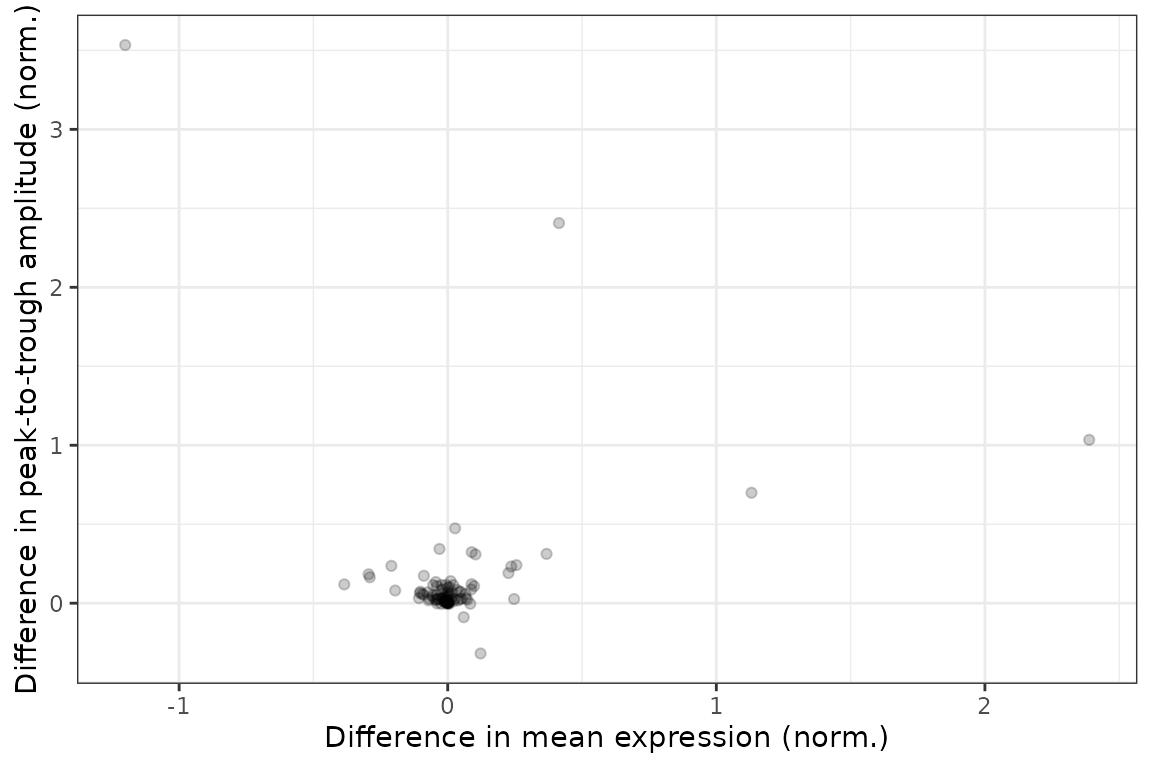
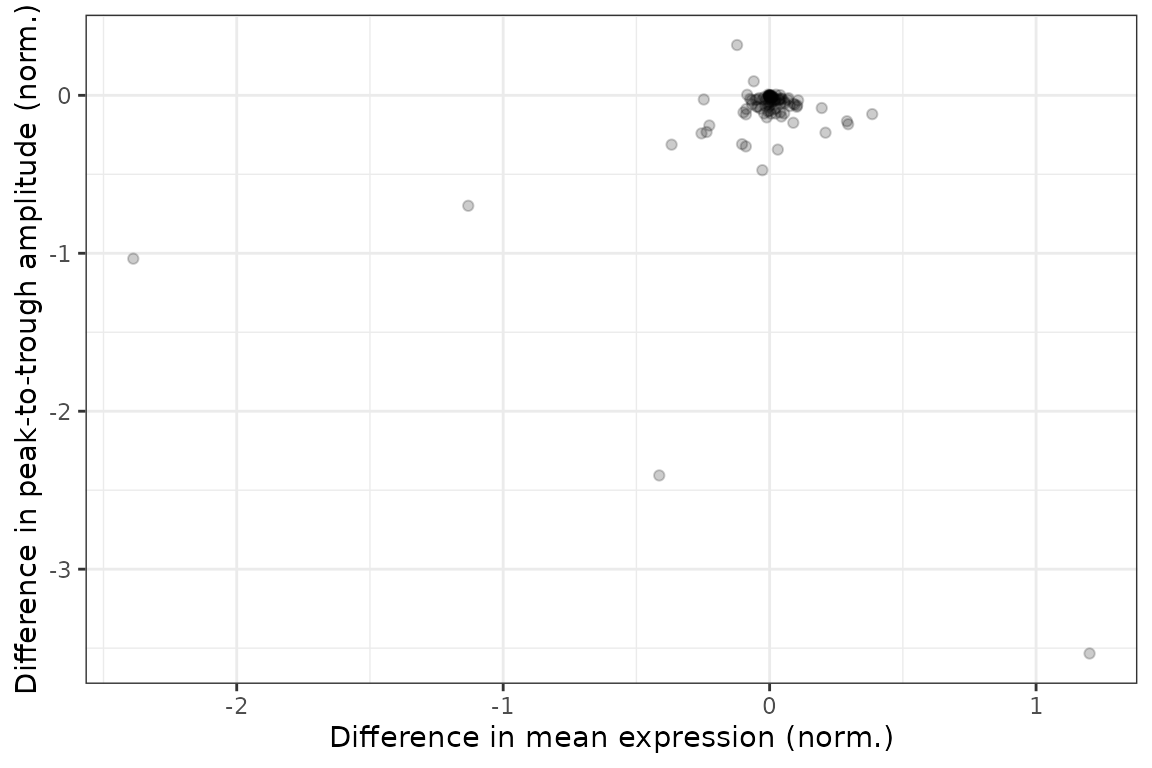
updating documentation and site, removing unnecessary code

diff --git a/docs/articles/differential-rhythmicity.html b/docs/articles/differential-rhythmicity.html
@@ -168,7 +168,7 @@
 <span class="co">#&gt;  - Computing 100 x 109 likelihood matrix.</span>
 <span class="co">#&gt;  - Likelihood calculations took 0.06 seconds.</span>
 <span class="co">#&gt;  - Fitting model with 109 mixture components.</span>
-<span class="co">#&gt;  - Model fitting took 0.02 seconds.</span>
+<span class="co">#&gt;  - Model fitting took 0.01 seconds.</span>
 <span class="co">#&gt;  - Computing posterior matrices.</span>
 <span class="co">#&gt;  - Computation allocated took 0.01 seconds.</span></code></pre></div>
 </div>
@@ -212,56 +212,56 @@
 <code class="sourceCode R"><span class="va">diffRhyStats</span> <span class="op">=</span> <span class="fu"><a href="../reference/getDiffRhythmStats.html">getDiffRhythmStats</a></span><span class="op">(</span><span class="va">fit</span>, <span class="va">rhyStats</span>, condLevels <span class="op">=</span> <span class="fu"><a href="https://rdrr.io/r/base/levels.html">levels</a></span><span class="op">(</span><span class="va">metadata</span><span class="op">$</span><span class="va">cond</span><span class="op">)</span><span class="op">)</span>
 <span class="fu"><a href="https://rdrr.io/r/base/print.html">print</a></span><span class="op">(</span><span class="va">diffRhyStats</span>, nrows <span class="op">=</span> <span class="fl">10L</span><span class="op">)</span>
 <span class="co">#&gt;        feature     cond1    cond2 diff_mean_value diff_peak_trough_amp</span>
-<span class="co">#&gt;   1:    101476 wild-type knockout    -0.385079194          0.119024736</span>
-<span class="co">#&gt;   2:    104662 wild-type knockout     0.088926109          0.120641471</span>
-<span class="co">#&gt;   3:    107652 wild-type knockout    -0.030761445          0.343503780</span>
-<span class="co">#&gt;   4:    109359 wild-type knockout    -0.009406463          0.039640031</span>
-<span class="co">#&gt;   5: 110599566 wild-type knockout     0.006050343          0.057446071</span>
+<span class="co">#&gt;   1:    101476 wild-type knockout     0.385079194         -0.119024736</span>
+<span class="co">#&gt;   2:    104662 wild-type knockout    -0.088926109         -0.120641471</span>
+<span class="co">#&gt;   3:    107652 wild-type knockout     0.030761445         -0.343503780</span>
+<span class="co">#&gt;   4:    109359 wild-type knockout     0.009406463         -0.039640031</span>
+<span class="co">#&gt;   5: 110599566 wild-type knockout    -0.006050343         -0.057446071</span>
 <span class="co">#&gt;  ---                                                                  </span>
-<span class="co">#&gt;  96:     76629 wild-type knockout     0.045727952          0.025321758</span>
-<span class="co">#&gt;  97:     78174 wild-type knockout    -0.003833334          0.002883578</span>
-<span class="co">#&gt;  98:     80782 wild-type knockout    -0.019076587          0.026706196</span>
-<span class="co">#&gt;  99:     93671 wild-type knockout     0.122202398         -0.318458377</span>
-<span class="co">#&gt; 100:     97064 wild-type knockout     0.066047812          0.057648476</span>
+<span class="co">#&gt;  96:     76629 wild-type knockout    -0.045727952         -0.025321758</span>
+<span class="co">#&gt;  97:     78174 wild-type knockout     0.003833334         -0.002883578</span>
+<span class="co">#&gt;  98:     80782 wild-type knockout     0.019076587         -0.026706196</span>
+<span class="co">#&gt;  99:     93671 wild-type knockout    -0.122202398          0.318458377</span>
+<span class="co">#&gt; 100:     97064 wild-type knockout    -0.066047812         -0.057648476</span>
 <span class="co">#&gt;      diff_rms_amp diff_peak_phase diff_trough_phase rms_diff_rhy</span>
-<span class="co">#&gt;   1:  0.050009025       1.5431221         3.6419347  0.231750686</span>
-<span class="co">#&gt;   2:  0.048870179      -7.5438911        -5.1482949  0.201688499</span>
-<span class="co">#&gt;   3:  0.115274715       2.3486873         4.2596862  0.390392048</span>
-<span class="co">#&gt;   4:  0.014145087       0.7842197         3.2539909  0.045821389</span>
-<span class="co">#&gt;   5:  0.019823612      -8.0133286        -7.9850954  0.079889026</span>
+<span class="co">#&gt;   1: -0.050009025      -1.5431221        -3.6419347  0.231750686</span>
+<span class="co">#&gt;   2: -0.048870179       7.5438911         5.1482949  0.201688499</span>
+<span class="co">#&gt;   3: -0.115274715      -2.3486873        -4.2596862  0.390392048</span>
+<span class="co">#&gt;   4: -0.014145087      -0.7842197        -3.2539909  0.045821389</span>
+<span class="co">#&gt;   5: -0.019823612       8.0133286         7.9850954  0.079889026</span>
 <span class="co">#&gt;  ---                                                            </span>
-<span class="co">#&gt;  96:  0.009408998      -6.4503647        -8.6171045  0.041815280</span>
-<span class="co">#&gt;  97:  0.001211714      -1.6270477         2.0338405  0.004473018</span>
-<span class="co">#&gt;  98:  0.009274696      -0.1900239         0.4066909  0.028202979</span>
-<span class="co">#&gt;  99: -0.102493077       3.5169301       -11.3633377  1.044134449</span>
-<span class="co">#&gt; 100:  0.020596285       2.0915970         7.9439872  0.068376386</span></code></pre></div>
+<span class="co">#&gt;  96: -0.009408998       6.4503647         8.6171045  0.041815280</span>
+<span class="co">#&gt;  97: -0.001211714       1.6270477        -2.0338405  0.004473018</span>
+<span class="co">#&gt;  98: -0.009274696       0.1900239        -0.4066909  0.028202979</span>
+<span class="co">#&gt;  99:  0.102493077      -3.5169301        11.3633377  1.044134449</span>
+<span class="co">#&gt; 100: -0.020596285      -2.0915970        -7.9439872  0.068376386</span></code></pre></div>
 <p>We can examine the distributions of the statistics in various ways, such as ranking genes by difference in peak-to-trough amplitude (no p-values necessary) or plotting difference in peak-to-trough amplitude vs. difference in mean expression.</p>
 <div class="sourceCode" id="cb6"><pre class="downlit sourceCode r">
 <code class="sourceCode R"><span class="fu"><a href="https://rdrr.io/r/base/print.html">print</a></span><span class="op">(</span><span class="va">diffRhyStats</span><span class="op">[</span><span class="fu"><a href="https://Rdatatable.gitlab.io/data.table/reference/setorder.html">order</a></span><span class="op">(</span><span class="va">diff_peak_trough_amp</span><span class="op">)</span><span class="op">]</span>, nrows <span class="op">=</span> <span class="fl">10L</span><span class="op">)</span>
 <span class="co">#&gt;      feature     cond1    cond2 diff_mean_value diff_peak_trough_amp</span>
-<span class="co">#&gt;   1:   93671 wild-type knockout     0.122202398         -0.318458377</span>
-<span class="co">#&gt;   2:   18378 wild-type knockout     0.059531404         -0.088706917</span>
-<span class="co">#&gt;   3:   58229 wild-type knockout     0.005650829         -0.004711548</span>
-<span class="co">#&gt;   4:   20497 wild-type knockout    -0.023894611         -0.004206791</span>
-<span class="co">#&gt;   5:  329910 wild-type knockout     0.084197747         -0.003591791</span>
+<span class="co">#&gt;   1:   13170 wild-type knockout     1.200806055         -3.533865155</span>
+<span class="co">#&gt;   2:   12686 wild-type knockout    -0.414207921         -2.406530463</span>
+<span class="co">#&gt;   3:   26897 wild-type knockout    -2.388261031         -1.034124834</span>
+<span class="co">#&gt;   4:   20211 wild-type knockout    -1.131052863         -0.699250756</span>
+<span class="co">#&gt;   5:   12977 wild-type knockout    -0.027363903         -0.473937425</span>
 <span class="co">#&gt;  ---                                                                </span>
-<span class="co">#&gt;  96:   12977 wild-type knockout     0.027363903          0.473937425</span>
-<span class="co">#&gt;  97:   20211 wild-type knockout     1.131052863          0.699250756</span>
-<span class="co">#&gt;  98:   26897 wild-type knockout     2.388261031          1.034124834</span>
-<span class="co">#&gt;  99:   12686 wild-type knockout     0.414207921          2.406530463</span>
-<span class="co">#&gt; 100:   13170 wild-type knockout    -1.200806055          3.533865155</span>
+<span class="co">#&gt;  96:  329910 wild-type knockout    -0.084197747          0.003591791</span>
+<span class="co">#&gt;  97:   20497 wild-type knockout     0.023894611          0.004206791</span>
+<span class="co">#&gt;  98:   58229 wild-type knockout    -0.005650829          0.004711548</span>
+<span class="co">#&gt;  99:   18378 wild-type knockout    -0.059531404          0.088706917</span>
+<span class="co">#&gt; 100:   93671 wild-type knockout    -0.122202398          0.318458377</span>
 <span class="co">#&gt;       diff_rms_amp diff_peak_phase diff_trough_phase rms_diff_rhy</span>
-<span class="co">#&gt;   1: -0.1024930767       3.5169301       -11.3633377  1.044134449</span>
-<span class="co">#&gt;   2: -0.0237101323      -9.3201219        -8.6090161  0.256049333</span>
-<span class="co">#&gt;   3: -0.0013749504     -10.9831840         3.2542325  0.007650559</span>
-<span class="co">#&gt;   4: -0.0008941407      -8.1356528        -8.3626192  0.018547619</span>
-<span class="co">#&gt;   5: -0.0031446455      -9.0552937        -9.5536510  0.197597118</span>
+<span class="co">#&gt;   1: -1.2402582569      -0.9555117        -0.5424612  3.802135940</span>
+<span class="co">#&gt;   2: -0.8550873280      -4.9265939        -1.1261574  2.828991912</span>
+<span class="co">#&gt;   3: -0.3915656446       0.7545927         6.2343634  1.479902146</span>
+<span class="co">#&gt;   4: -0.2563897925      -2.7175892       -10.1197405  1.241164124</span>
+<span class="co">#&gt;   5: -0.1682833503      -1.3111236        -4.7103687  0.521668016</span>
 <span class="co">#&gt;  ---                                                             </span>
-<span class="co">#&gt;  96:  0.1682833503       1.3111236         4.7103687  0.521668016</span>
-<span class="co">#&gt;  97:  0.2563897925       2.7175892        10.1197405  1.241164124</span>
-<span class="co">#&gt;  98:  0.3915656446      -0.7545927        -6.2343634  1.479902146</span>
-<span class="co">#&gt;  99:  0.8550873280       4.9265939         1.1261574  2.828991912</span>
-<span class="co">#&gt; 100:  1.2402582569       0.9555117         0.5424612  3.802135940</span>
+<span class="co">#&gt;  96:  0.0031446455       9.0552937         9.5536510  0.197597118</span>
+<span class="co">#&gt;  97:  0.0008941407       8.1356528         8.3626192  0.018547619</span>
+<span class="co">#&gt;  98:  0.0013749504      10.9831840        -3.2542325  0.007650559</span>
+<span class="co">#&gt;  99:  0.0237101323       9.3201219         8.6090161  0.256049333</span>
+<span class="co">#&gt; 100:  0.1024930767      -3.5169301        11.3633377  1.044134449</span>
 
 <span class="fu"><a href="https://ggplot2.tidyverse.org/reference/ggplot.html">ggplot</a></span><span class="op">(</span><span class="va">diffRhyStats</span><span class="op">)</span> <span class="op">+</span>
   <span class="fu"><a href="https://ggplot2.tidyverse.org/reference/geom_point.html">geom_point</a></span><span class="op">(</span><span class="fu"><a href="https://ggplot2.tidyverse.org/reference/aes.html">aes</a></span><span class="op">(</span>x <span class="op">=</span> <span class="va">diff_mean_value</span>, y <span class="op">=</span> <span class="va">diff_peak_trough_amp</span><span class="op">)</span>, alpha <span class="op">=</span> <span class="fl">0.2</span><span class="op">)</span> <span class="op">+</span>

diff --git a/docs/articles/uncertainty.html b/docs/articles/uncertainty.html
@@ -170,7 +170,7 @@
 <span class="co">#&gt;  - Computing 100 x 109 likelihood matrix.</span>
 <span class="co">#&gt;  - Likelihood calculations took 0.06 seconds.</span>
 <span class="co">#&gt;  - Fitting model with 109 mixture components.</span>
-<span class="co">#&gt;  - Model fitting took 0.02 seconds.</span>
+<span class="co">#&gt;  - Model fitting took 0.01 seconds.</span>
 <span class="co">#&gt;  - Computing posterior matrices.</span>
 <span class="co">#&gt;  - Computation allocated took 0.01 seconds.</span></code></pre></div>
 </div>
@@ -265,29 +265,29 @@
 <span class="va">diffRhyStatsSamps</span><span class="op">[</span><span class="va">genes</span>, <span class="va">symbol</span> <span class="op">:=</span> <span class="va">i.symbol</span>, on <span class="op">=</span> <span class="fu">.</span><span class="op">(</span>feature <span class="op">=</span> <span class="va">id</span><span class="op">)</span><span class="op">]</span>
 <span class="fu"><a href="https://rdrr.io/r/base/print.html">print</a></span><span class="op">(</span><span class="va">diffRhyStatsSamps</span>, nrows <span class="op">=</span> <span class="fl">10L</span><span class="op">)</span>
 <span class="co">#&gt;      feature posterior_sample     cond1    cond2 diff_mean_value</span>
-<span class="co">#&gt;   1:   12686                1 wild-type knockout       0.4083296</span>
-<span class="co">#&gt;   2:   12686                2 wild-type knockout       0.3386511</span>
-<span class="co">#&gt;   3:   12686                3 wild-type knockout       0.4269917</span>
-<span class="co">#&gt;   4:   12686                4 wild-type knockout       0.3265127</span>
-<span class="co">#&gt;   5:   12686                5 wild-type knockout       0.3463000</span>
+<span class="co">#&gt;   1:   12686                1 wild-type knockout      -0.4083296</span>
+<span class="co">#&gt;   2:   12686                2 wild-type knockout      -0.3386511</span>
+<span class="co">#&gt;   3:   12686                3 wild-type knockout      -0.4269917</span>
+<span class="co">#&gt;   4:   12686                4 wild-type knockout      -0.3265127</span>
+<span class="co">#&gt;   5:   12686                5 wild-type knockout      -0.3463000</span>
 <span class="co">#&gt;  ---                                                            </span>
-<span class="co">#&gt; 146:   26897               46 wild-type knockout       2.3821759</span>
-<span class="co">#&gt; 147:   26897               47 wild-type knockout       2.3301956</span>
-<span class="co">#&gt; 148:   26897               48 wild-type knockout       2.4299884</span>
-<span class="co">#&gt; 149:   26897               49 wild-type knockout       2.3018778</span>
-<span class="co">#&gt; 150:   26897               50 wild-type knockout       2.4027325</span>
+<span class="co">#&gt; 146:   26897               46 wild-type knockout      -2.3821759</span>
+<span class="co">#&gt; 147:   26897               47 wild-type knockout      -2.3301956</span>
+<span class="co">#&gt; 148:   26897               48 wild-type knockout      -2.4299884</span>
+<span class="co">#&gt; 149:   26897               49 wild-type knockout      -2.3018778</span>
+<span class="co">#&gt; 150:   26897               50 wild-type knockout      -2.4027325</span>
 <span class="co">#&gt;      diff_peak_trough_amp diff_rms_amp diff_peak_phase diff_trough_phase</span>
-<span class="co">#&gt;   1:            2.5671171    0.8933007       1.8136085         0.8240157</span>
-<span class="co">#&gt;   2:            2.5290374    0.9056453       5.3312776         0.9626241</span>
-<span class="co">#&gt;   3:            2.6030130    0.9237720       4.8303454         0.5388696</span>
-<span class="co">#&gt;   4:            2.2099703    0.7781436       5.1200017         3.1584134</span>
-<span class="co">#&gt;   5:            2.2718334    0.8052674       4.7144006         1.0342290</span>
+<span class="co">#&gt;   1:           -2.5671171   -0.8933007      -1.8136085        -0.8240157</span>
+<span class="co">#&gt;   2:           -2.5290374   -0.9056453      -5.3312776        -0.9626241</span>
+<span class="co">#&gt;   3:           -2.6030130   -0.9237720      -4.8303454        -0.5388696</span>
+<span class="co">#&gt;   4:           -2.2099703   -0.7781436      -5.1200017        -3.1584134</span>
+<span class="co">#&gt;   5:           -2.2718334   -0.8052674      -4.7144006        -1.0342290</span>
 <span class="co">#&gt;  ---                                                                    </span>
-<span class="co">#&gt; 146:            1.2587567    0.4015045      -1.0530490        -7.2756453</span>
-<span class="co">#&gt; 147:            1.4133809    0.5230411      -1.2877243         2.3325067</span>
-<span class="co">#&gt; 148:            1.0275415    0.3705012      -0.8332398        -6.0653608</span>
-<span class="co">#&gt; 149:            0.5256044    0.1902584       0.9409261        -4.1293078</span>
-<span class="co">#&gt; 150:            0.9094560    0.3389905      -0.9645104         1.9435250</span>
+<span class="co">#&gt; 146:           -1.2587567   -0.4015045       1.0530490         7.2756453</span>
+<span class="co">#&gt; 147:           -1.4133809   -0.5230411       1.2877243        -2.3325067</span>
+<span class="co">#&gt; 148:           -1.0275415   -0.3705012       0.8332398         6.0653608</span>
+<span class="co">#&gt; 149:           -0.5256044   -0.1902584      -0.9409261         4.1293078</span>
+<span class="co">#&gt; 150:           -0.9094560   -0.3389905       0.9645104        -1.9435250</span>
 <span class="co">#&gt;      rms_diff_rhy symbol</span>
 <span class="co">#&gt;   1:    2.7237402 Elovl3</span>
 <span class="co">#&gt;   2:    2.9991839 Elovl3</span>
@@ -336,14 +336,14 @@
 <span class="va">diffRhyStatsInts</span> <span class="op">=</span> <span class="fu"><a href="../reference/getStatsIntervals.html">getStatsIntervals</a></span><span class="op">(</span><span class="va">diffRhyStatsSamps</span><span class="op">)</span>
 <span class="fu"><a href="https://rdrr.io/r/base/print.html">print</a></span><span class="op">(</span><span class="va">diffRhyStatsInts</span>, nrows <span class="op">=</span> <span class="fl">10L</span><span class="op">)</span>
 <span class="co">#&gt;     feature            statistic      lower      upper</span>
-<span class="co">#&gt;  1:   12686      diff_mean_value  0.3273693  0.4761391</span>
-<span class="co">#&gt;  2:   13170      diff_mean_value -1.3077532 -1.0946908</span>
-<span class="co">#&gt;  3:   26897      diff_mean_value  2.3132504  2.4744074</span>
-<span class="co">#&gt;  4:   12686 diff_peak_trough_amp  2.0279483  2.6358331</span>
-<span class="co">#&gt;  5:   13170 diff_peak_trough_amp  3.3477383  3.7189186</span>
+<span class="co">#&gt;  1:   12686      diff_mean_value -0.4761391 -0.3273693</span>
+<span class="co">#&gt;  2:   13170      diff_mean_value  1.0946908  1.3077532</span>
+<span class="co">#&gt;  3:   26897      diff_mean_value -2.4744074 -2.3132504</span>
+<span class="co">#&gt;  4:   12686 diff_peak_trough_amp -2.6358331 -2.0279483</span>
+<span class="co">#&gt;  5:   13170 diff_peak_trough_amp -3.7189186 -3.3477383</span>
 <span class="co">#&gt; ---                                                   </span>
-<span class="co">#&gt;  8:   13170         diff_rms_amp  1.1650380  1.3045149</span>
-<span class="co">#&gt;  9:   26897         diff_rms_amp  0.2527135  0.4515353</span>
+<span class="co">#&gt;  8:   13170         diff_rms_amp -1.3045149 -1.1650380</span>
+<span class="co">#&gt;  9:   26897         diff_rms_amp -0.4515353 -0.2527135</span>
 <span class="co">#&gt; 10:   12686         rms_diff_rhy  2.6023486  3.1263108</span>
 <span class="co">#&gt; 11:   13170         rms_diff_rhy  3.5986650  4.0251194</span>
 <span class="co">#&gt; 12:   26897         rms_diff_rhy  1.1039042  1.8415935</span></code></pre></div>

diff --git a/docs/reference/getDiffRhythmStats.html b/docs/reference/getDiffRhythmStats.html
@@ -142,7 +142,7 @@ given pair of conditions. Register a parallel backend to minimize runtime,
 e.g., using <code><a href='https://rdrr.io/pkg/doParallel/man/registerDoParallel.html'>doParallel::registerDoParallel()</a></code>.</p>
     </div>
 
-    <pre class="usage"><span class='fu'>getDiffRhythmStats</span><span class='op'>(</span><span class='va'>fit</span>, <span class='va'>rhyStats</span>, condLevels <span class='op'>=</span> <span class='cn'>NULL</span><span class='op'>)</span></pre>
+    <pre class="usage"><span class='fu'>getDiffRhythmStats</span><span class='op'>(</span><span class='va'>fit</span>, <span class='va'>rhyStats</span>, condLevels <span class='op'>=</span> <span class='va'>fit</span><span class='op'>$</span><span class='va'>condLevels</span><span class='op'>)</span></pre>
 
     <h2 class="hasAnchor" id="arguments"><a class="anchor" href="#arguments"></a>Arguments</h2>
     <table class="ref-arguments">
@@ -158,9 +158,10 @@ e.g., using <code><a href='https://rdrr.io/pkg/doParallel/man/registerDoParallel
     </tr>
     <tr>
       <th>condLevels</th>
-      <td><p>A character vector indicating the two conditions to
-compare. Differences will be returned as the value for <code>condLevels[2]</code>
-minus the value for <code>condLevels[1]</code>.</p></td>
+      <td><p>An optional character vector indicating the conditions to
+compare. By default, <code>getDiffRhythmStats</code> compares all possible condition pairs.
+Differences will be returned as the value for <code>condLevels[2]</code> minus the
+value for <code>condLevels[1]</code>.</p></td>
     </tr>
     </table>
 
@@ -179,8 +180,8 @@ statistics:</p><ul>
 </ul>
 
 <p>The rows of the <code>data.table</code> depend on the 'fitType' attribute of <code>rhyStats</code>:</p><ul>
-<li><p>'fitType' is 'posterior_mean' or 'raw': one row per feature.</p></li>
-<li><p>'fitType' is 'posterior_samples': one row per feature per posterior sample.</p></li>
+<li><p>'fitType' is 'posterior_mean' or 'raw': one row per feature per condition pair.</p></li>
+<li><p>'fitType' is 'posterior_samples': one row per feature per condition pair per posterior sample.</p></li>
 </ul>
 
     <h2 class="hasAnchor" id="see-also"><a class="anchor" href="#see-also"></a>See also</h2>
